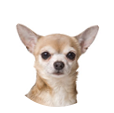
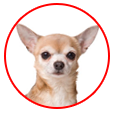
dog hovers

Changed region(s): [[0.0263, 0.0265, 0.9737, 0.9823]]

diff --git a/public/index.html b/public/index.html
@@ -26,7 +26,7 @@
     			<a href="/girls/bootylicious" class="thumbnail hvr-shrink hvr-border-fade">
       				<img class="bootylicious" src="assets/images/thumbnails/bootylicious.jpg" alt="bootylicious">
       				<div class="caption text-center">
-        			<h5><span>BOOTYLICIOUS</span> BABE</h5>
+        			 <h5><span>BOOTYLICIOUS</span> BABE</h5>
     				</div>
     			</a>
     		</div>
@@ -34,7 +34,7 @@
     			<a href="/girls/fierceCowgirl" class="thumbnail hvr-shrink hvr-border-fade">
       				<img class="fiercecowgirl" src="assets/images/thumbnails/fierceCowgirl.png" alt="cowgirl">
       				<div class="caption text-center">
-        			<h5><span>FIERCE</span> COWGIRL</h5>
+        			 <h5><span>FIERCE</span> COWGIRL</h5>
     				</div>
     			</a>
     		</div>		
@@ -42,7 +42,7 @@
     			<a href="/girls/girlNextDoor" class="thumbnail hvr-shrink hvr-border-fade">
        				<img class="girlNextDoor" src="assets/images/thumbnails/girlNextDoor.jpg" alt="girlNextDoor">
       				<div class="caption text-center">
-        			<h5>GIRL <span>NEXT</span>DOOR</h5>
+        			 <h5>GIRL <span>NEXT</span>DOOR</h5>
     				</div>
     			</a>
   			</div>
@@ -50,78 +50,80 @@
     			<a href="/girls/blondeBombshell" class="thumbnail hvr-shrink hvr-border-fade">
        				<img class="blondeBombshell" src="assets/images/thumbnails/blondeBombshell.png" alt="blondeBombshell">
       				<div class="caption text-center">
-        			<h5><span>BLONDE</span>BOMBSHELL</h5>
+        			 <h5><span>BLONDE</span>BOMBSHELL</h5>
     				</div>
     			</a>
   			</div>
   		</div>		
-  		<div class="row">
-  			<div class="col-sm-3">
+  		<div class="row text-center">
+  			<div class="col-s-6 col-sm-3">
     			<a href="/girls/naturalBeauty" class="thumbnail hvr-shrink hvr-border-fade">
       				<img class="naturalBeauty" src="assets/images/thumbnails/naturalBeauty.png" alt="natralBeauty">
       				<div class="caption text-center">
-        			<h5><span>NATURAL</span> BEAUTY</h5>
+        			 <h5><span>NATURAL</span> BEAUTY</h5>
     				</div>
     			</a>
   			</div>
-  			<div class="col-sm-3">
+  			<div class="col-s-6 col-sm-3">
     			<a href="/girls/fitnessChic" class="thumbnail hvr-shrink hvr-border-fade">
       				<img class="fitnessChic" src="assets/images/thumbnails/fitnessChic.png" alt="fitnessChic">
       				<div class="caption text-center">
-        			<h5><span>FITNESS</span>CHIC</h5>
+        			 <h5><span>FITNESS</span>CHIC</h5>
     				</div>
     			</a>
     		</div>	
-  			<div class="col-sm-3">
+  			<div class="col-s-6 col-sm-3">
     			<a href="/girls/beachBunny" class="thumbnail hvr-shrink hvr-border-fade"> 
       				<img class="beachBunny" src="assets/images/thumbnails/beachBunny.png" alt="beachBunny">
       				<div class="caption text-center">
-        			<h5><span>BEACH</span>BUNNY</h5>
+        			 <h5><span>BEACH</span>BUNNY</h5>
     				</div>
     			</a>
   			</div>
-  			<div class="col-sm-3">
+  			<div class="col-s-6 col-sm-3">
     			<a href="/girls/madisonAve" class="thumbnail hvr-shrink hvr-border-fade"> 
       				<img class="madisonAve" src="assets/images/thumbnails/madisonAve.jpg" alt="madisonAve">
       				<div class="caption text-center">
-        			<h5>MS.<span>MADISON</span>AVE</h5>
+        			 <h5>MS.<span>MADISON</span>AVE</h5>
     				</div>
     			</a>
   			</div>
 		</div>
-		<div class="row">
-			<div class="col-sm-3">
+		
+    <div class="row text-center">
+			<div class="col-s-6 col-sm-3">
 			<a href="/girls/daddysGirl" class="thumbnail hvr-shrink hvr-border-fade">
    				<img class="daddysGirl" src="assets/images/thumbnails/daddysGirl.png" alt="daddysGirl">
   				<div class="caption text-center">
-    			<h5><span>DADDY'S</span>GIRL</h5>
+    			 <h5><span>DADDY'S</span>GIRL</h5>
 				</div>
 			</a>
 		</div>
-  		<div class="col-sm-3">
+  		<div class="col-s-6 col-sm-3">
 			<a href="/girls/tattooedBaby" class="thumbnail hvr-shrink hvr-border-fade"> 
   				<img class="tattooBaby" src="assets/images/thumbnails/tattooBaby.png" alt="tattooBaby">
   				<div class="caption text-center">
-    			<h5><span>TATTOOED</span>BABY</h5>
+    			 <h5><span>TATTOOED</span>BABY</h5>
 				</div>
 			</a>
 		</div>
-		<div class="col-sm-3">
+		<div class="col-s-6 col-sm-3">
 			<a href="/girls/sexyBrunette" class="thumbnail hvr-shrink hvr-border-fade">
   				<img class="sexyBrunette" src="assets/images/thumbnails/sexyBrunette.png" alt="sexyBrunette">
   				<div class="caption text-center">
-    			<h5><span>SEXY</span>BRUNETTE</h5>
+    			 <h5><span>SEXY</span>BRUNETTE</h5>
 				</div>
 			</a>
 		</div>
-		<div class="col-sm-3">
+		<div class="col-s-6 col-sm-3">
     		<a href="/girls/bikerBabe" class="thumbnail hvr-shrink hvr-border-fade" >
     				<img class="bikerBabe" src="assets/images/thumbnails/bikerBabe.png" alt="bikerBabe">
     				<div class="caption text-center">
-    			<h5><span>BIKER</span> BABE</h5>
+    			   <h5><span>BIKER</span> BABE</h5>
     			</div>
     		</a>
 		</div>
+  </div>
 
   </div>
     <footer class="footer">

diff --git a/public/assets/css/girl.css b/public/assets/css/girl.css
@@ -2,7 +2,6 @@ body{
 	background: none;
 }
 
-
 .hvr-grow {
   display: inline-block;
   vertical-align: middle;
@@ -15,8 +14,8 @@ body{
   transition-property: transform;
 }
 .hvr-grow:hover, .hvr-grow:focus, .hvr-grow:active {
-  -webkit-transform: scale(1.2);
-  transform: scale(1.2);
+  -webkit-transform: scale(1.1);
+  transform: scale(1.1);
 }
 
 
@@ -111,7 +110,6 @@ span{
     white-space: normal;
     color: #ffffff;
     font-size: 18px;
-    display: none;
     text-align: center;
 }
 
@@ -199,6 +197,7 @@ input {
     border-radius: 4px;
     padding: 4px;
     margin-bottom: 20px;
+    font-size: 12px;
 
 }
 
@@ -220,7 +219,7 @@ input {
 @media screen and (max-width: 768px){
 	#title{
 		font-size: 32px;
-		margin-left: 0;
+		margin-left: 20px;
 	}
 	p{
 		padding-right: 20px;
@@ -249,8 +248,8 @@ input {
 	}
 
 	.dogThumbnails {
-	    display: inherit;
-	    max-width:65%;
+	    display: table-caption;
+	   
 
 	}
 
@@ -278,7 +277,7 @@ input {
 	}
 	.bottom{
 	position: absolute;
- 	bottom: 0px;
+ 	bottom: 5px;
 	}
 
 	p{
@@ -288,6 +287,10 @@ input {
 
 	h5{
 		font-size: 12px;
+	}
+	h4{
+		font-size: 25px;
+
 	}
 
 	.dogRow{
@@ -307,21 +310,20 @@ input {
 
 @media screen and (max-width: 320px){
 	.dogThumbnails {
-	    display: inherit;
-	    max-width: 75%;
+	    max-width: 100%;
 	    margin-right: -29px;
 	    margin-top: -19px;
 	}
 
 	.descriptionDiv {
-	    padding-top: 40px;
+	    /*padding-top: 40px;*/
 	    padding-bottom: 13;
-	    padding-left: 19px;
+	    padding-left: 30px;
 	}
 
 	.chooseDog{
 		margin-top: 22px;
-		display: inherit;
+		/*display: inherit;*/
 	}
 
 	#dogButton{
@@ -331,8 +333,10 @@ input {
 
 	.dogRow {
     	float: right;
-   	 	margin-top: 29px;
     	margin-right: initial;
+	}
+	h4{
+		font-size: 22px;
 	}
 
 
